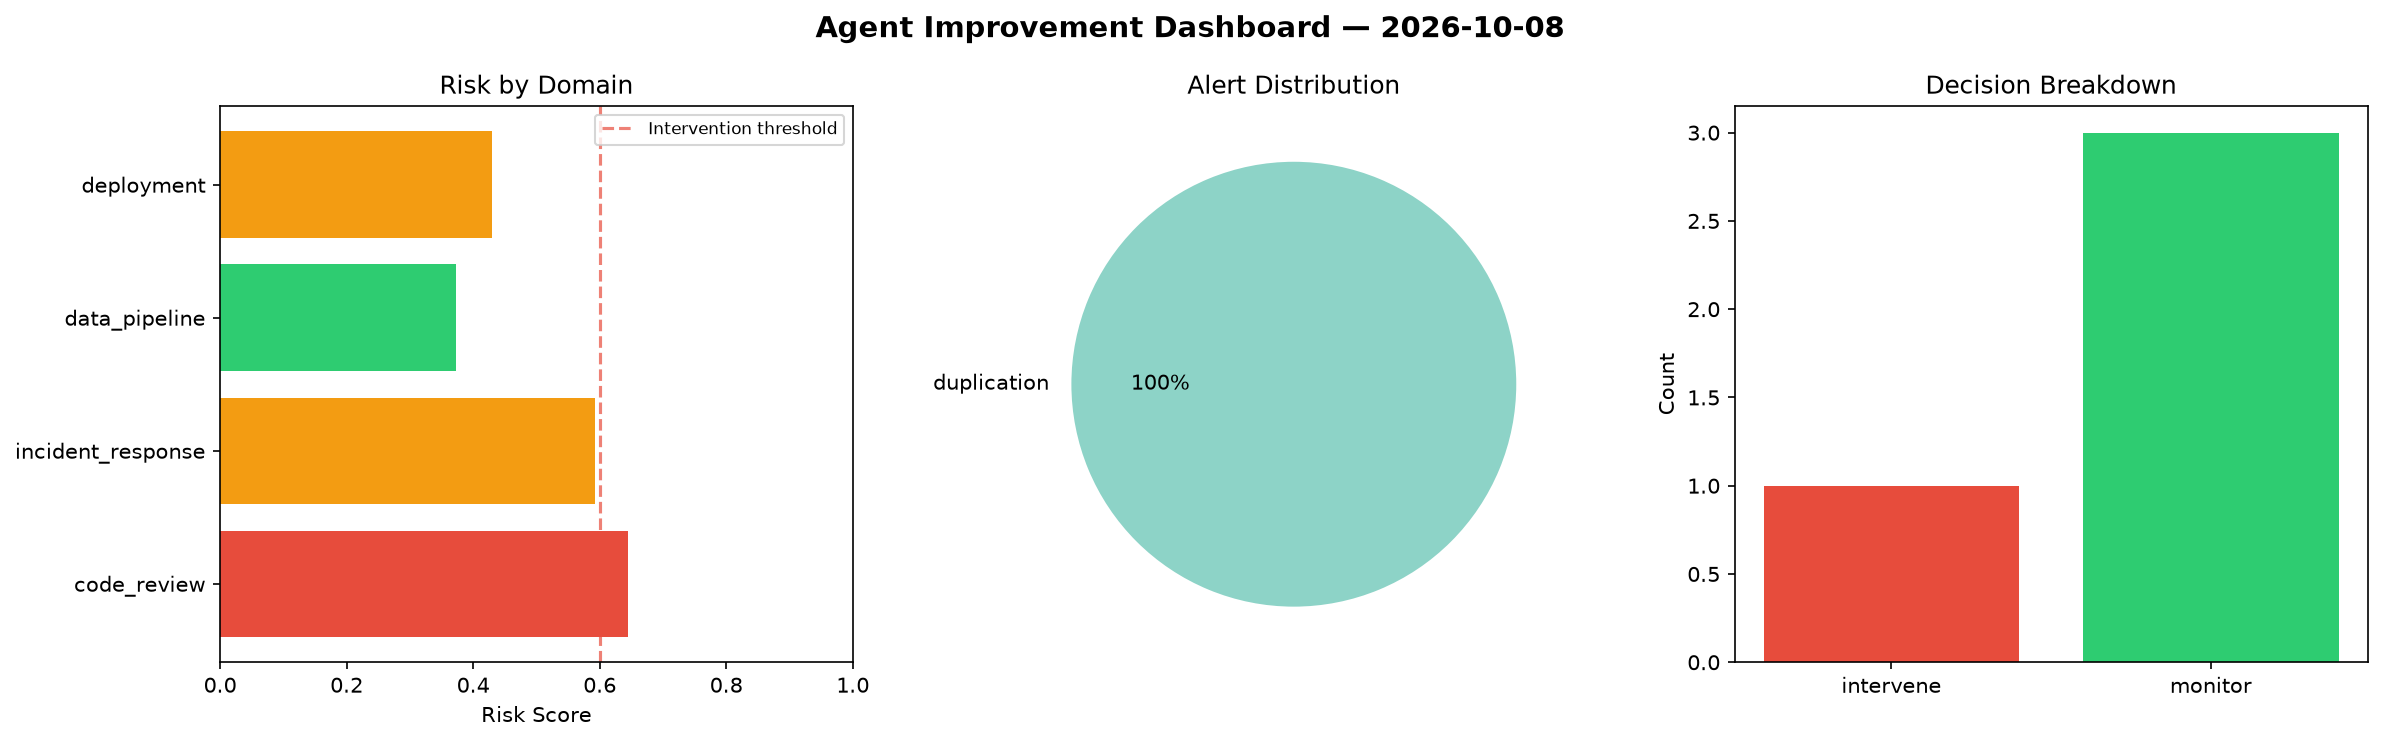
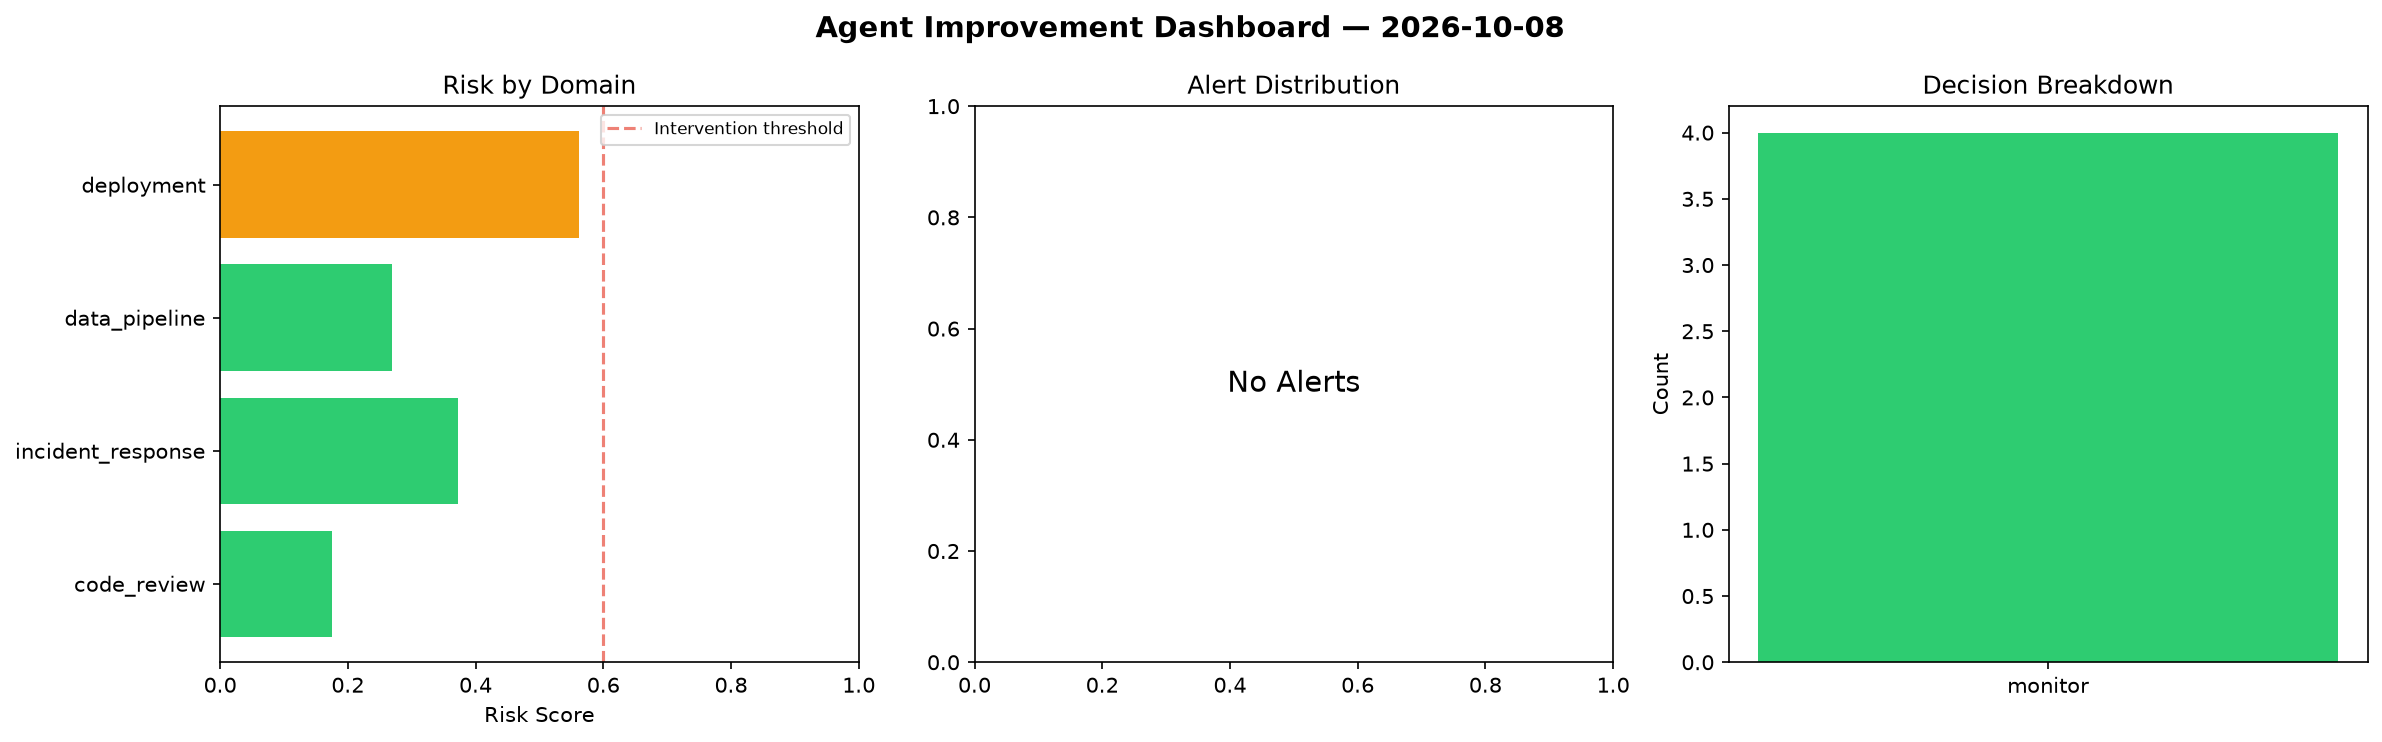
agent-improvement: daily cycle 2026-10-08T19:57

diff --git a/logs/2026-10-08.md b/logs/2026-10-08.md
@@ -1,6 +1,6 @@
 # Agent Improvement Report — 2026-10-08
 
-**Cycle ID:** `1007933c` | **Avg Risk:** 0.5099 | **Interventions:** 1/4
+**Cycle ID:** `e6a00a9f` | **Avg Risk:** 0.3445 | **Interventions:** 0/4
 
 ![Dashboard](2026-10-08_dashboard.png)
 
@@ -10,18 +10,18 @@
 
 | Domain | Risk Score | Decision | Alerts |
 |--------|-----------|----------|--------|
-| code_review | 0.6449 | intervene | duplication |
-| incident_response | 0.5924 | monitor | none |
-| data_pipeline | 0.3721 | monitor | none |
-| deployment | 0.4303 | monitor | none |
+| code_review | 0.1752 | monitor | none |
+| incident_response | 0.3717 | monitor | none |
+| data_pipeline | 0.2699 | monitor | none |
+| deployment | 0.5613 | monitor | none |
 
 ## Delta vs Yesterday
 
 | Domain | Today | Yesterday | Change |
 |--------|-------|-----------|--------|
-| code_review | 0.6449 | 0.5978 | 📈 7.9% |
-| incident_response | 0.5924 | 0.4255 | 📈 39.2% |
-| data_pipeline | 0.3721 | 0.4416 | 📉 -15.7% |
-| deployment | 0.4303 | 0.6032 | 📉 -28.7% |
+| code_review | 0.1752 | 0.5978 | 📉 -70.7% |
+| incident_response | 0.3717 | 0.4255 | 📉 -12.6% |
+| data_pipeline | 0.2699 | 0.4416 | 📉 -38.9% |
+| deployment | 0.5613 | 0.6032 | 📉 -6.9% |
 
-**Refinement:** `{'adjustment': 'maintain', 'trend': 'improving', 'window': 4}`
+**Refinement:** `{'adjustment': 'tighten_thresholds', 'trend': 'degrading', 'window': 4}`
